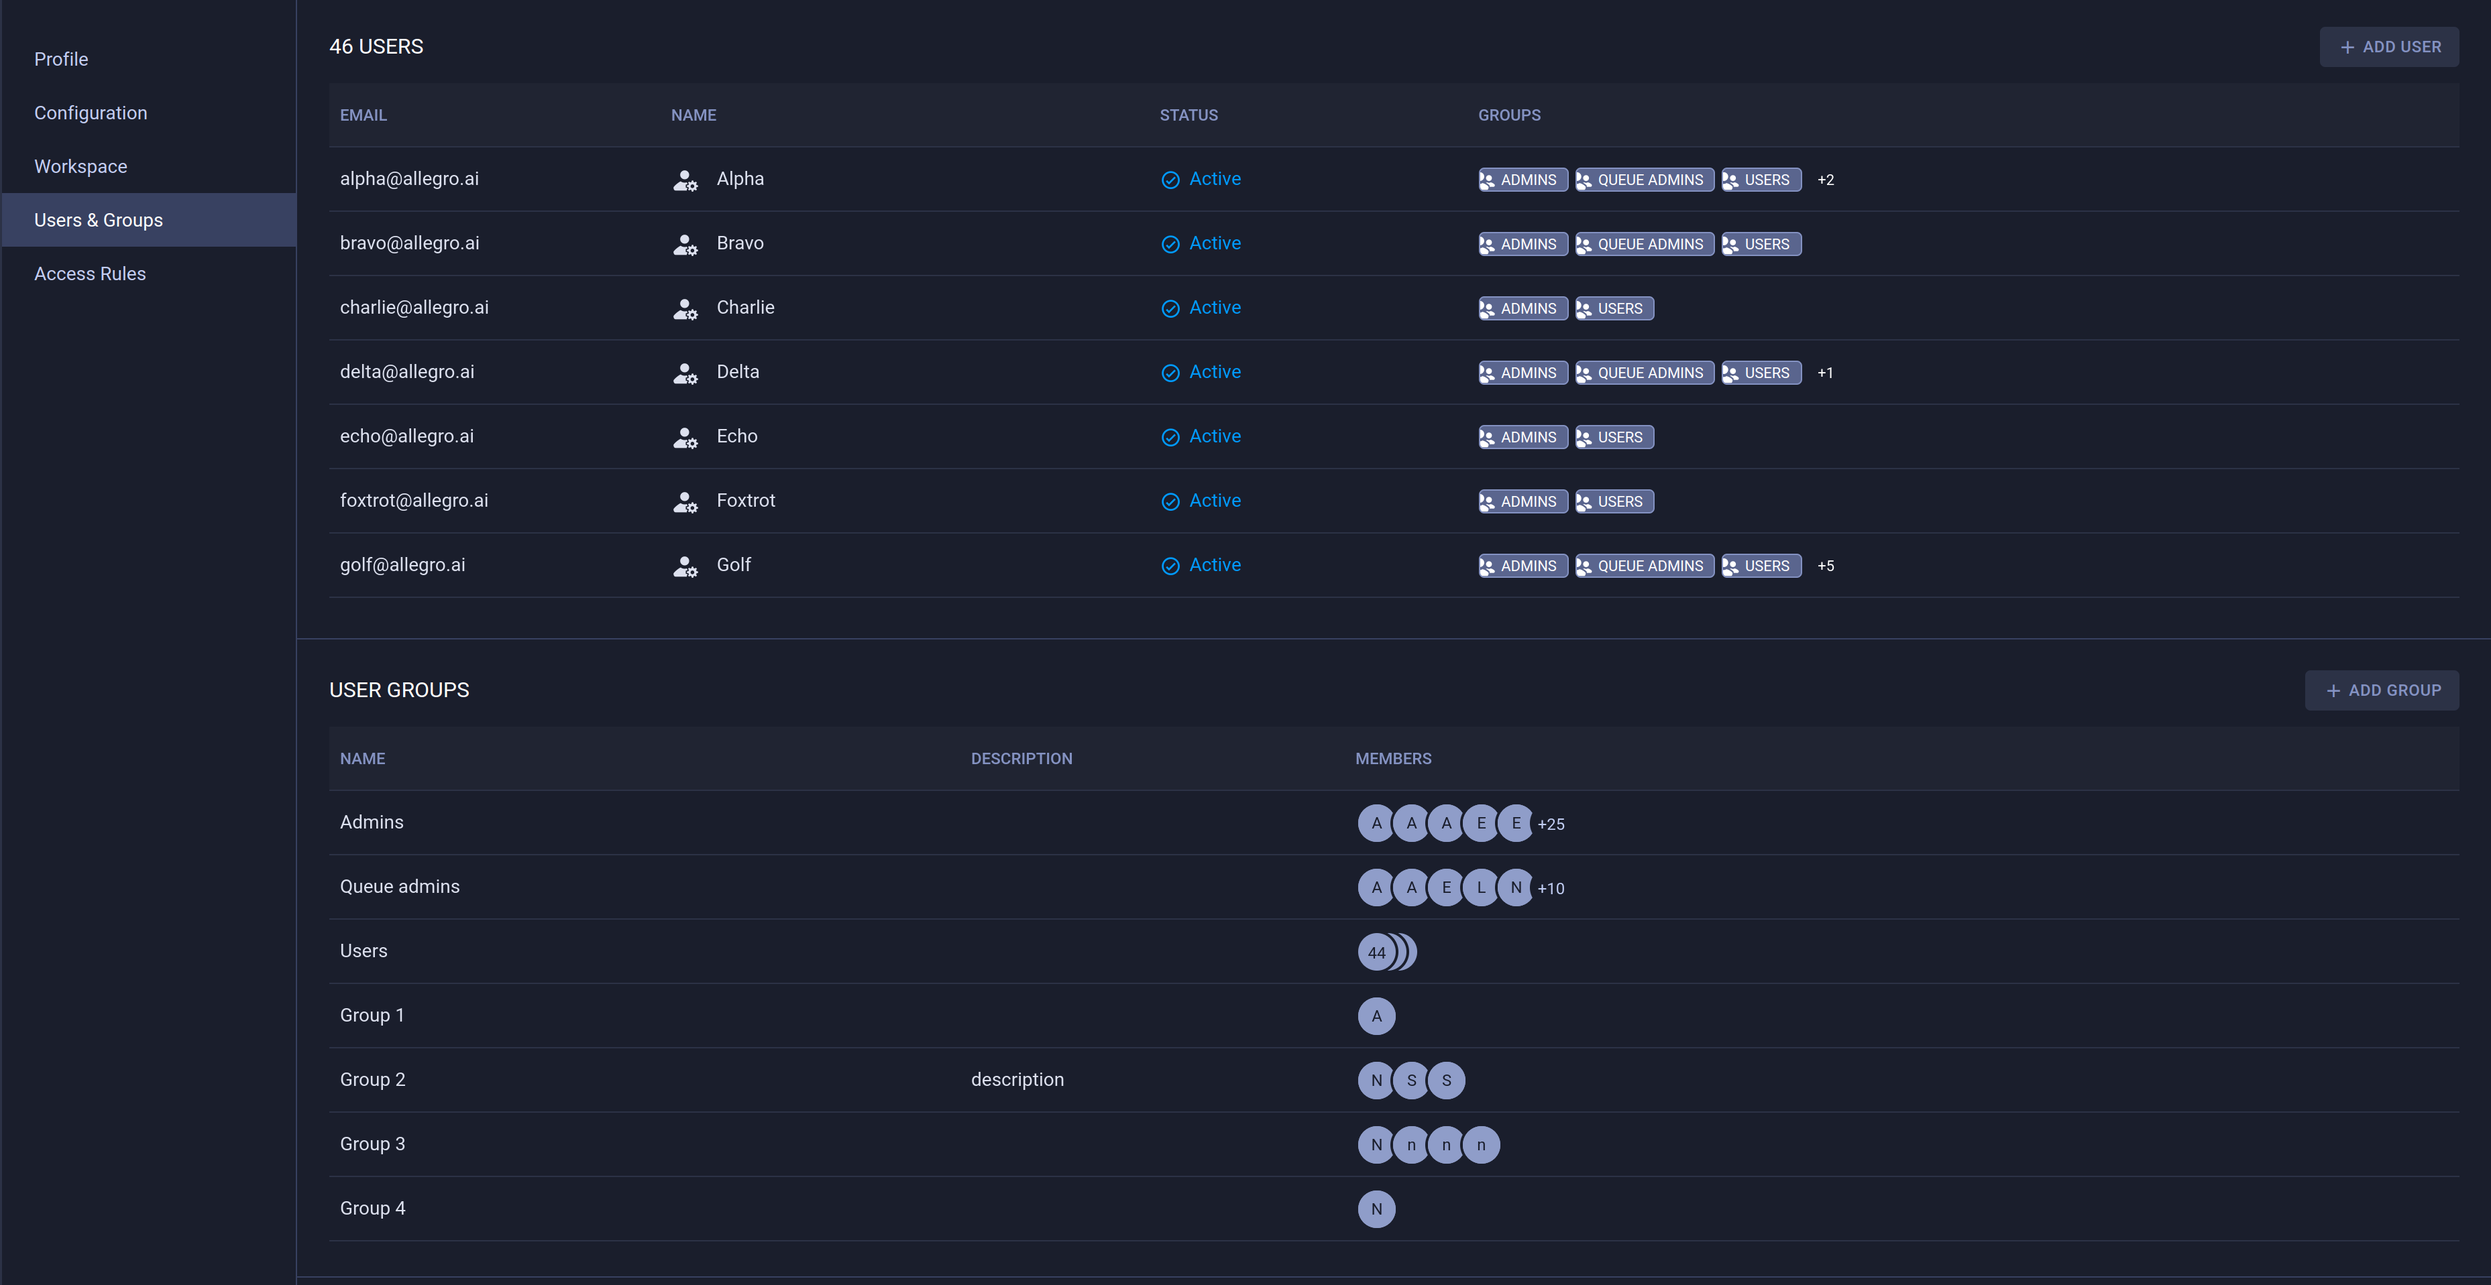
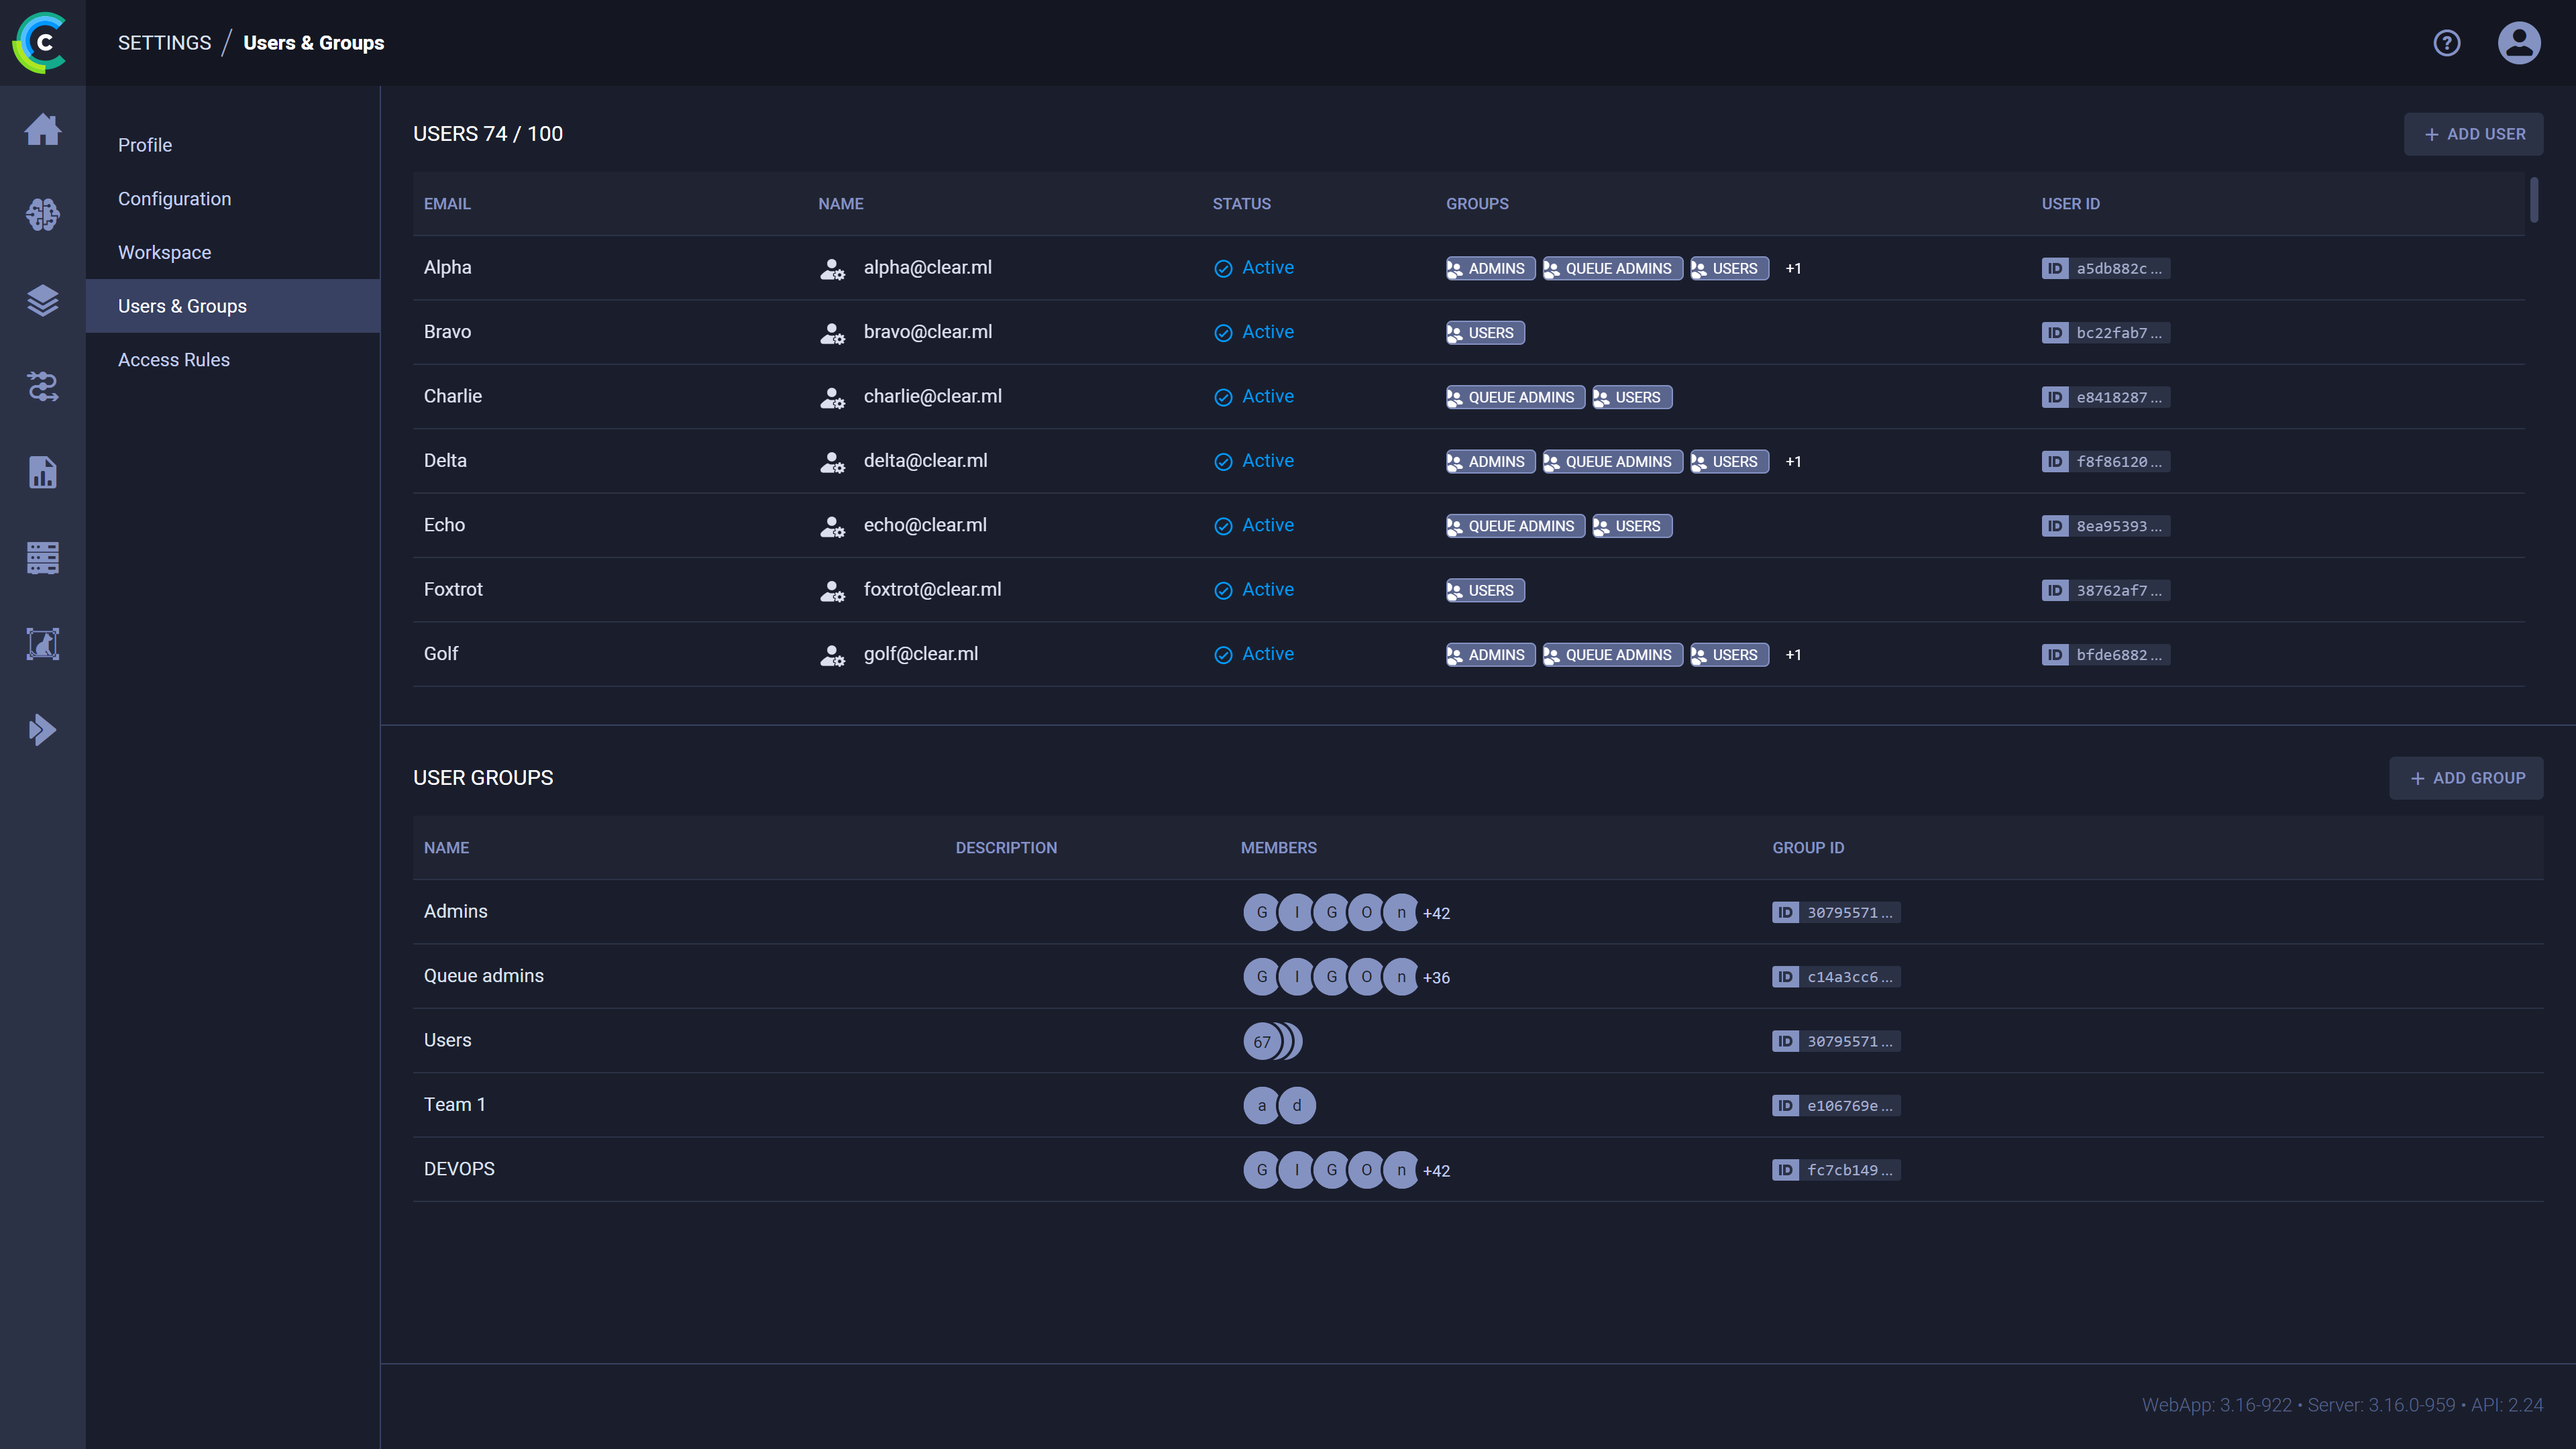
Add user group IDs

diff --git a/docs/webapp/webapp_profile.md b/docs/webapp/webapp_profile.md
@@ -205,7 +205,7 @@ The system includes three pre-configured groups that can't be removed:
   permissions to workspace resources
 * `Queue admins` -  Can create / delete / rename queues
 
-The user group table lists all the active user groups. Each row includes a group's name, description, and member list. 
+The user group table lists all the active user groups. Each row includes a group's name, description, member list, and ID. 
 
 ![User Management Page](../img/settings_user_management_table.png)
 
